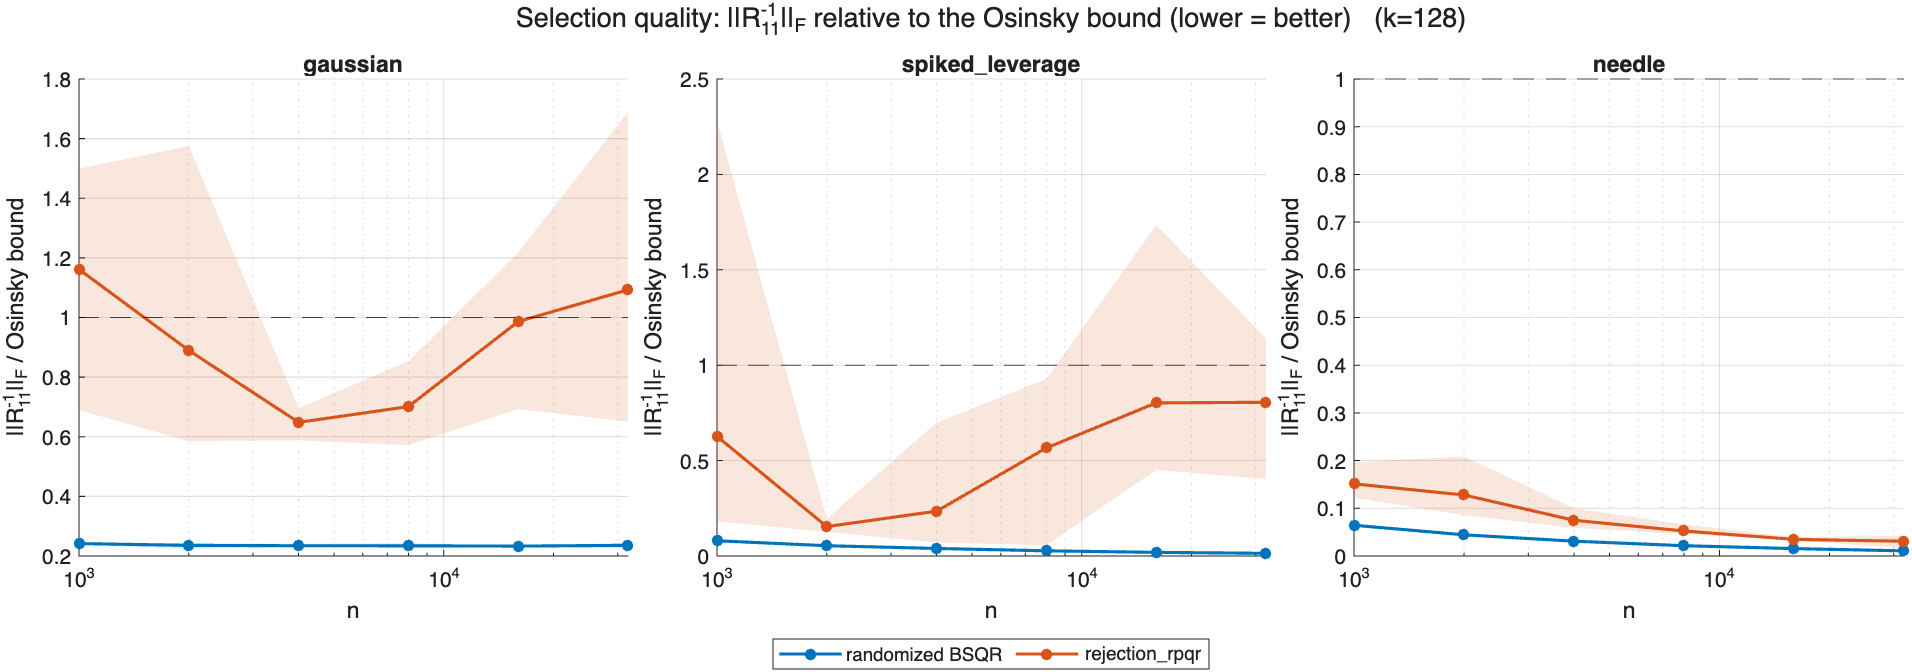
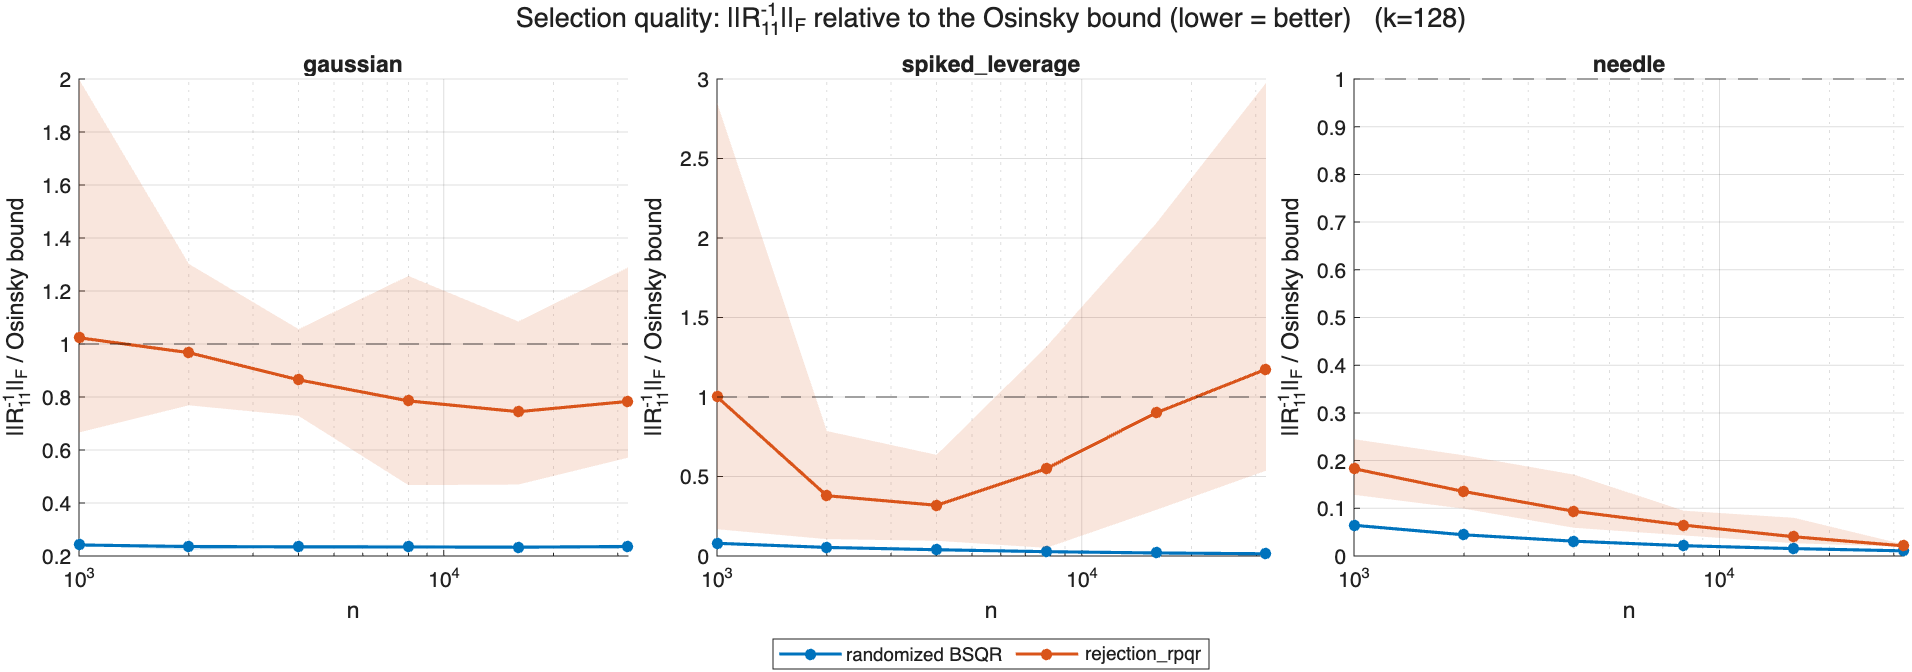
Sharpen rejection_rpqr comparison: guaranteed vs uncontrolled conditioning
The headline is conditioning, not a speed race. Reframe docs sec 13:
- BSQR's ||R11^{-1}||_F / Osinsky is tight and always <= 1 (~0.22-0.28 gaussian,
  ~0.01 stress); rejection_rpqr's is uncontrolled -- mean ~0.65-1.18, high
  variance, and individual selections routinely exceed the Osinsky bound (up to
  ~2.2x gaussian k=256, ~3.0x spiked k=128). ARP optimizes a volume/DPP
  criterion, so it has no guarantee here.
- Runtime is comparable, and the variance is on rejection's side: BSQR is stable
  (tested/k = block every seed) while rejection_rpqr swings ~3x run-to-run (its
  round count is itself random). So the earlier "BSQR slower at k=128" was
  rejection's timing variance, not contention (a clean re-run reproduced it).
- Note rejection is run at its default l=k (the ARP authors' own setting, near
  its speed sweet spot -- it is faster with larger l, not smaller).

Decision: keep the conditioning-favoring default (best_in_block, block ceil(k/2));
let "much better, guaranteed conditioning at comparable speed" be the story. The
adaptive block stays optional future work (sec 12). Regenerated the rpqr plots
from a clean single-job run (same seeds; equivalent).

diff --git a/docs/RANDOMIZED_BSQR_PLAN.md b/docs/RANDOMIZED_BSQR_PLAN.md
@@ -357,13 +357,26 @@ MEX), and the two optimize *different objectives* — BSQR minimizes the growth 
 `||R11^{-1}||_F`, while ARP targets a volume/DPP criterion — so the `||R11^{-1}||_F`
 metric measures BSQR's objective.
 
+`rejection_rpqr` is run at its default `l = k` (the proposal size — its analog of
+our block; the ARP authors' own `arp.m` uses this default, and it is near its
+speed sweet spot: it is *faster* with larger `l`, not smaller).
+
 Findings (n=32000, 5 seeds):
-- **Conditioning (BSQR's objective):** BSQR's `||R11^{-1}||_F` is `2.4–57×`
-  smaller than `rejection_rpqr`'s across families and k — e.g. `spiked_leverage`
-  ≈ 52× at every k (0.012–0.017 vs 0.62–0.88 relative to the Osinsky bound),
-  `gaussian` ≈ 3×, `needle` ≈ 2.5×. The gap is expected (different objective);
-  the point is its magnitude and consistency.
-- **Runtime:** comparable, and k-dependent — BSQR is `~1.5×` faster at k=64 but
-  `~0.4–0.7×` (i.e. slower) at k=128/256, as BSQR's per-step apply grows with k.
-- **Bottom line:** BSQR delivers substantially better-conditioned subsets at
-  comparable runtime.
+- **Conditioning (BSQR's objective) — guaranteed vs uncontrolled.** This is the
+  headline. BSQR's `||R11^{-1}||_F / Osinsky` is tight and *always ≤ 1* (≈ 0.22–0.28
+  gaussian, ≈ 0.01 on the stress families). `rejection_rpqr`'s is much larger and
+  **uncontrolled** — mean ≈ 0.65–1.18 with high variance, and individual
+  selections routinely *exceed* the Osinsky bound (up to ~2.2× on gaussian k=256,
+  ~3.0× on spiked_leverage k=128). ARP optimizes a volume/DPP criterion, not this
+  one, so it has no guarantee here; BSQR is 3–60× better and provably bounded.
+- **Runtime — comparable, with the variance on rejection's side.** BSQR's runtime
+  is stable (`tested/k = block` every seed); `rejection_rpqr`'s swings ~3×
+  run-to-run (≈ 5–14 ms at k=128) because its number of rounds is itself random
+  (rejection accept/reject). Mean speedup is therefore noisy: BSQR is ~1.5× faster
+  at k=64 and ~0.5–0.7× (somewhat slower) at k=128/256, where BSQR's per-step apply
+  (block `ceil(k/2)`) grows with k. A smaller block would close this — but that is
+  deliberately *not* the default, since it would trade away the conditioning edge
+  that is the whole point (see §12, adaptive block).
+- **Bottom line:** at comparable (and steadier) runtime, BSQR delivers
+  substantially better-conditioned subsets *with a guarantee* `rejection_rpqr`
+  does not provide.
